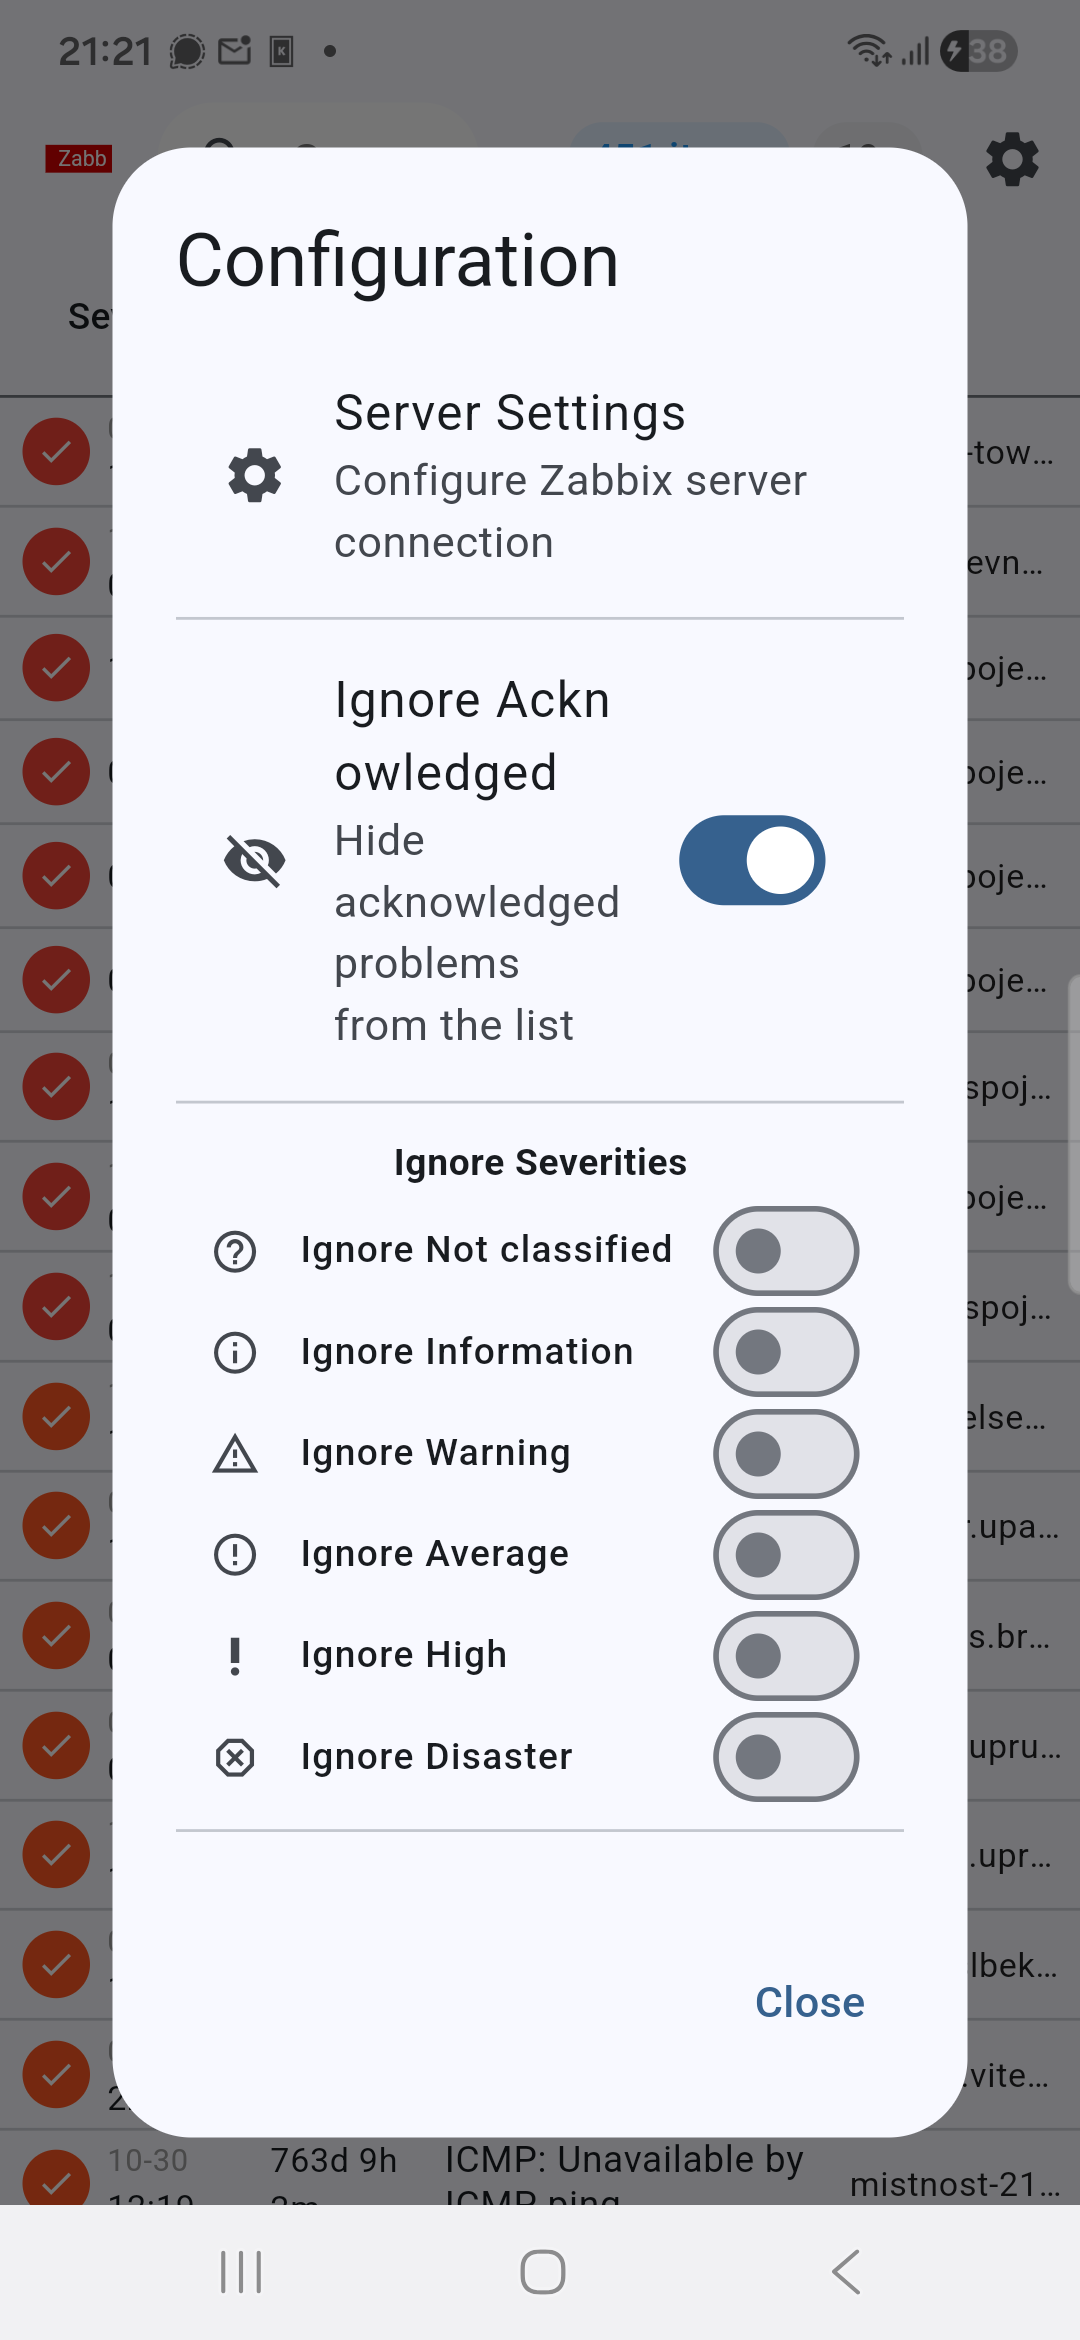
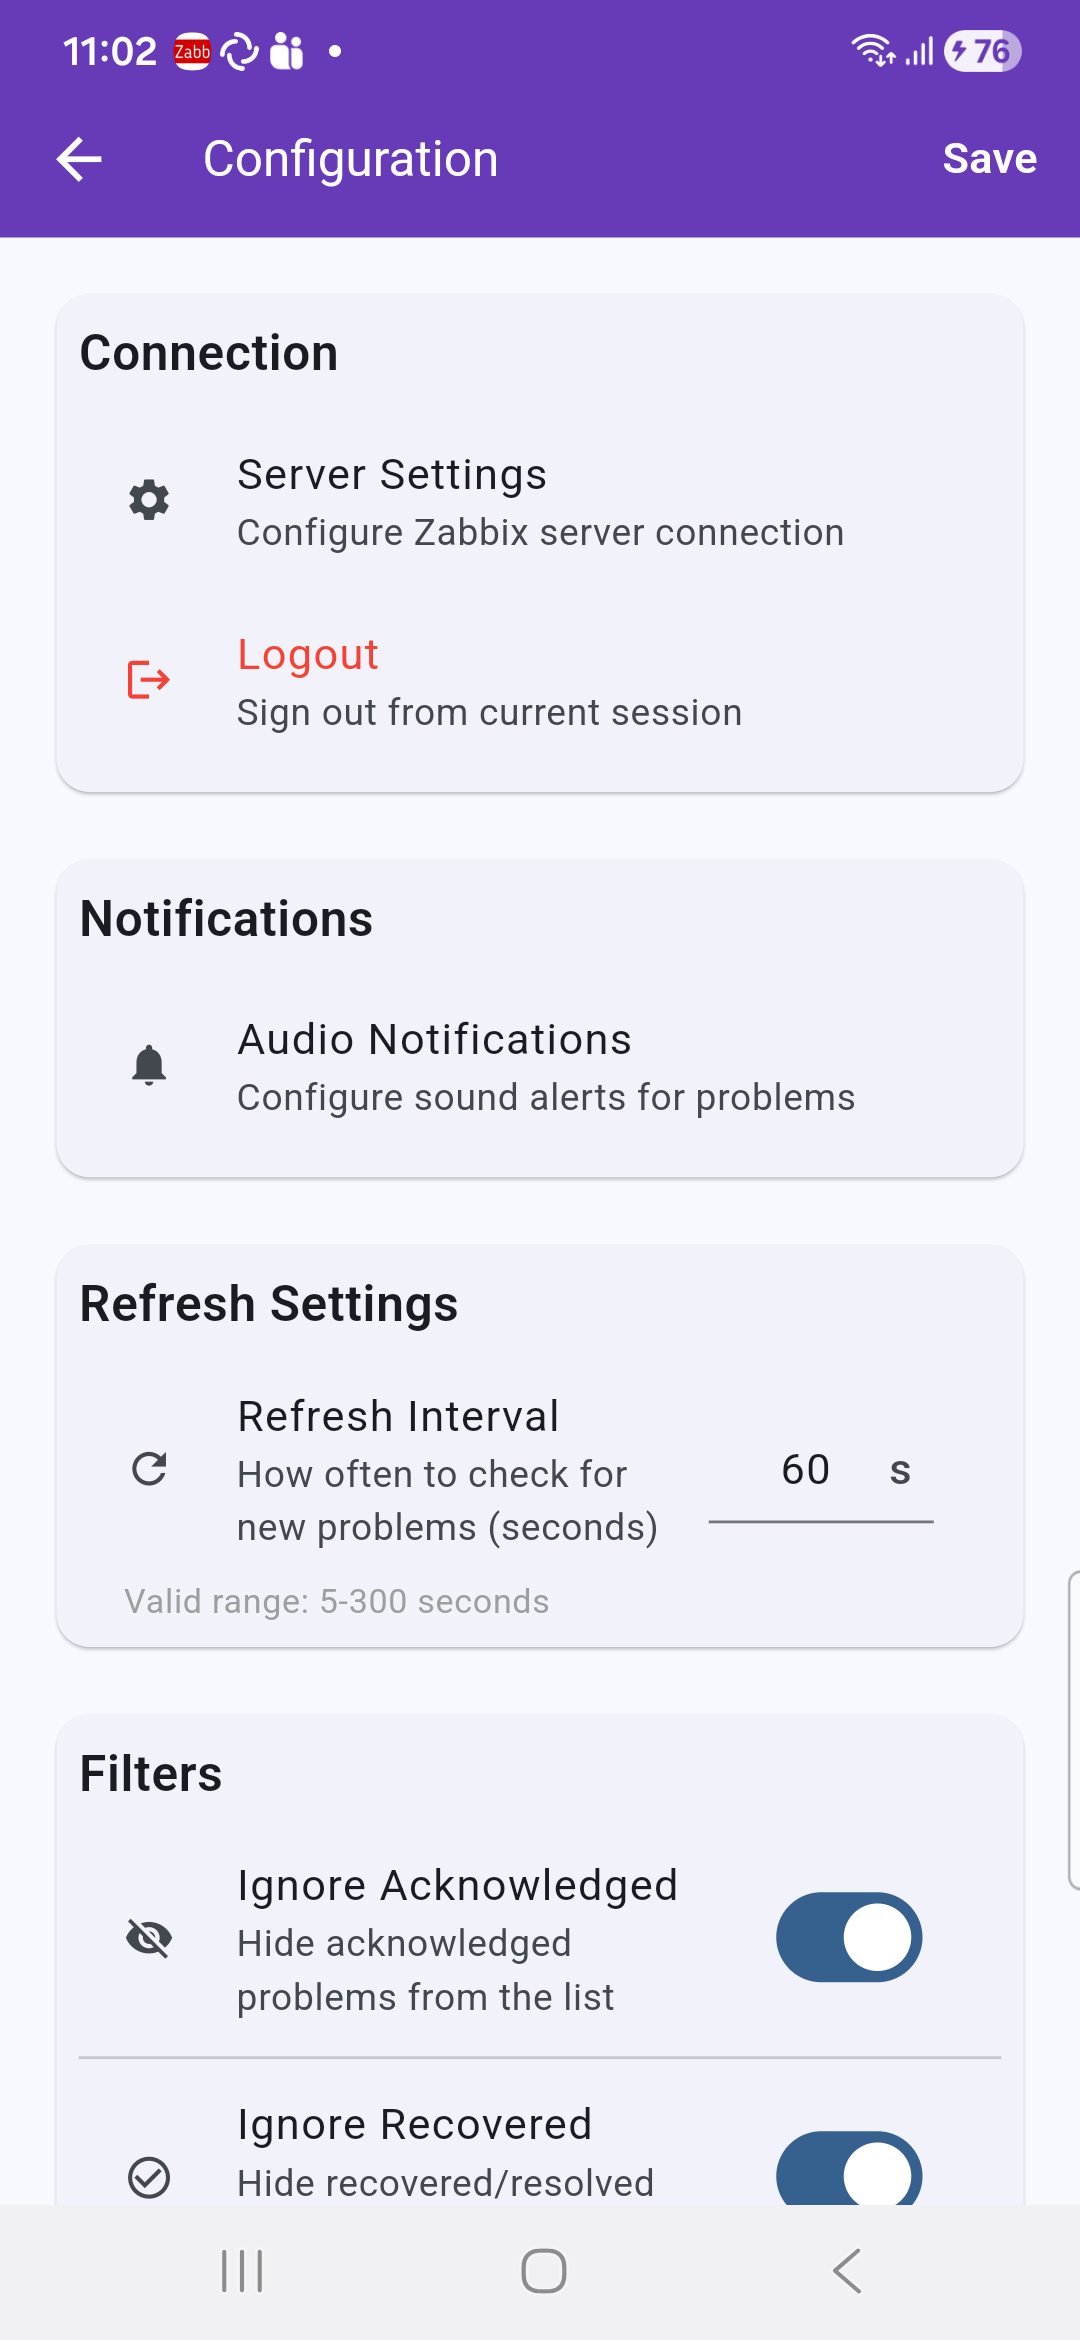
docs(screenshots): add problem popup alert screenshot
Refreshed app screenshots captured live from a connected Android device
to reflect current UI, and added a new screenshot showing the problem
popup alert feature.

diff --git a/README.md b/README.md
@@ -53,6 +53,10 @@ Zabb is a Flutter-based client for Zabbix monitoring system, enabling users to m
 
 ![Problems Screen](screenshots/problems.png?raw=true)
 
+### Problem Popup Alert
+
+![Problem Popup Alert](screenshots/problem_popup.png?raw=true)
+
 ### Configuration Dialog  
 
 ![Configuration Screen](screenshots/configuration.png?raw=true)